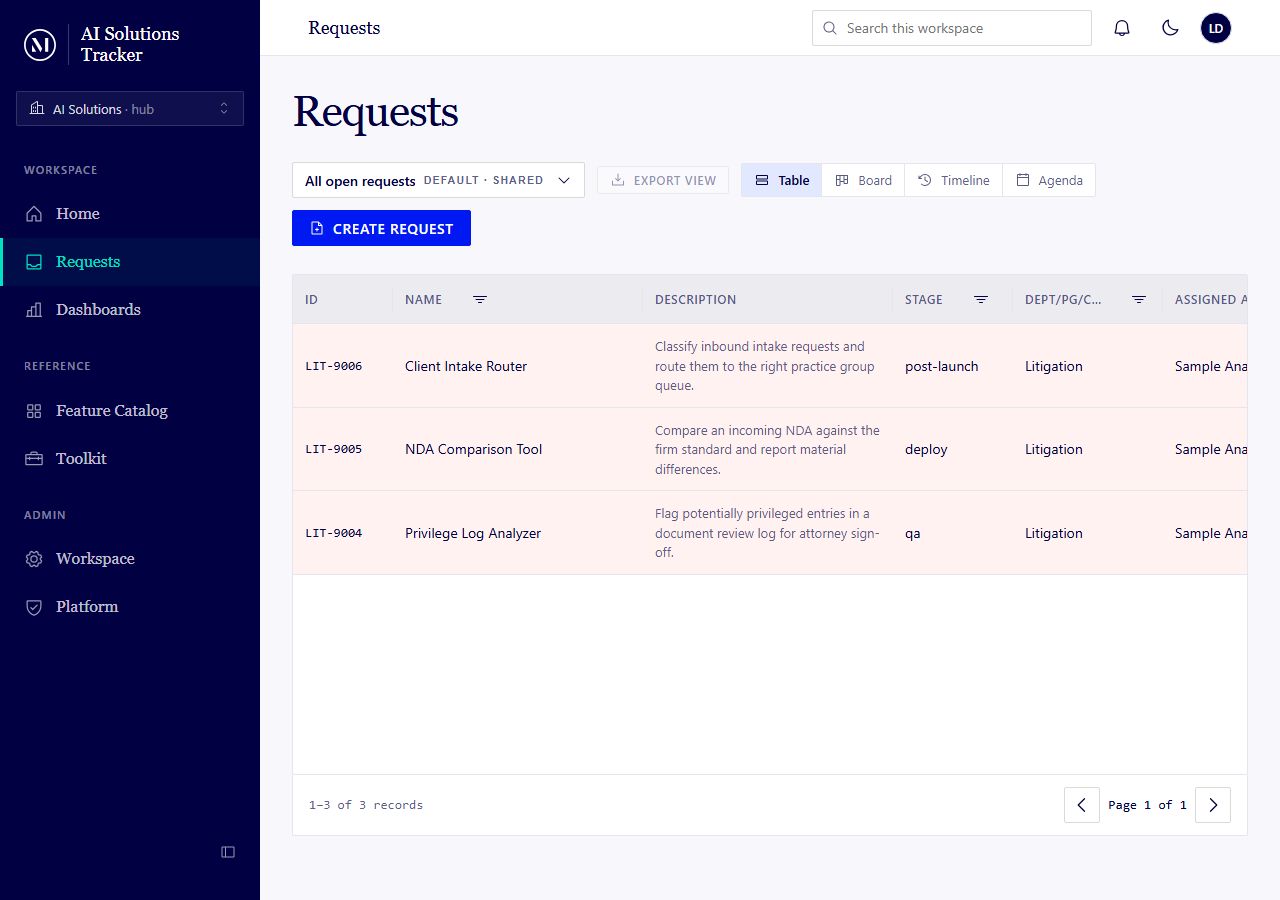
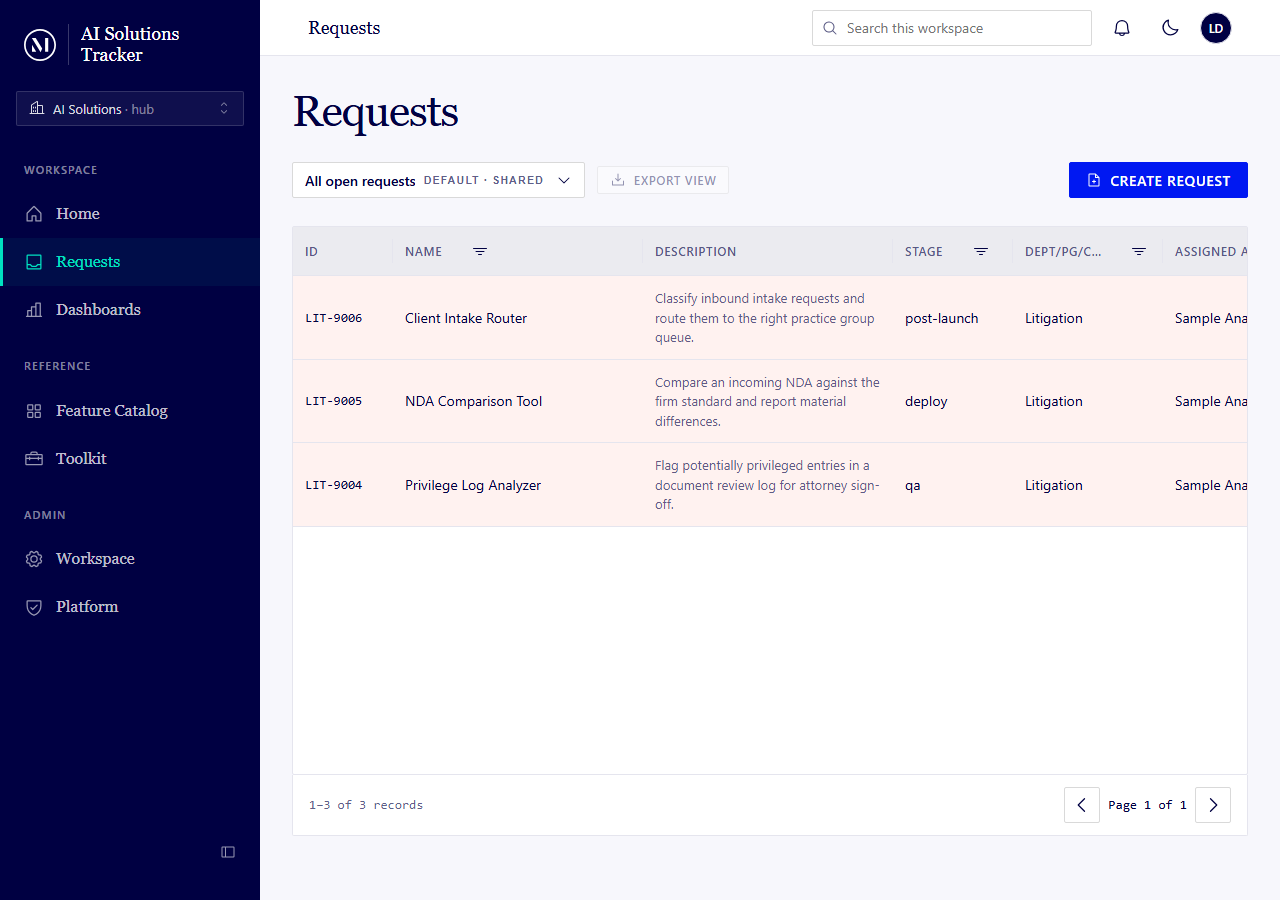
fix: remove advanced-view options from Requests page
The Table/Board/Timeline/Agenda view-mode toggle was mis-scoped onto the Requests page; the requirements language for advanced views was meant for the Dashboards page. Removes the ViewModeToggle, its ViewBar layoutSlot, the viewMode state, the kanban/timeline/agenda render branch, and the toViewItem/deriveStageOrder/slaBadges/REQUEST_VIEW_KINDS helpers plus the RecordViews import; drops the two view-switching tests. The Requests page now always renders the table. Shared RecordViews components are untouched (still used by FeatureCatalogPage). Design-fidelity render-and-compare confirms the Requests toolbar now matches the prototype (which shows no view-mode control), resolving the previously-Deferred S2/view-mode-toggle finding.

diff --git a/web/src/features/requests/components/RequestsListPage.tsx b/web/src/features/requests/components/RequestsListPage.tsx
@@ -24,14 +24,6 @@ import {
   type TableColumn,
   type TableRow,
 } from '@/shared/components/Table';
-import {
-  AgendaView,
-  KanbanView,
-  TimelineView,
-  ViewModeToggle,
-  type RecordViewItem,
-  type RecordViewKind,
-} from '@/shared/components/RecordViews';
 import { agingTintClass } from '@/shared/components/Feedback';
 import { EmptyListFilteredToZero, EmptyListZeroData } from '@/shared/components/EdgeStates';
 import { useMe } from '@/features/users/useMe';
@@ -252,49 +244,6 @@ function toTableRow(row: RequestListRow, onOpen: () => void): TableRow {
   };
 }
 
-/** Layouts offered on the Requests surface (Slice 24 — S24 advanced views). Gallery is Feature-only. */
-const REQUEST_VIEW_KINDS: RecordViewKind[] = ['table', 'kanban', 'timeline', 'agenda'];
-
-function slaBadges(sla: SlaStatus | undefined): RecordViewItem['badges'] {
-  if (sla === 'Overdue') return [{ label: 'Overdue', tone: 'error' }];
-  if (sla === 'DueSoon') return [{ label: 'Due soon', tone: 'warning' }];
-  return undefined;
-}
-
-/** Row → normalised advanced-view item (Slice 24). Group by Stage (kanban); anchor by Due date (timeline/agenda). */
-function toViewItem(row: RequestListRow, onOpen: () => void): RecordViewItem {
-  const columns = row.columns;
-  const due = typeof columns.due === 'string' ? columns.due : undefined;
-  return {
-    id: row.id,
-    title: cellText(columns.name),
-    subtitle: columns.desc ? cellText(columns.desc) : undefined,
-    groupValue: cellText(columns.stage),
-    dateValue: due,
-    badges: slaBadges(row.slaStatus),
-    meta: [
-      { label: 'ID', value: cellText(columns.id) },
-      { label: 'Dept/PG/Client', value: cellText(columns.origin) },
-      { label: 'Analyst', value: cellText(columns.analyst) },
-    ],
-    onOpen,
-  };
-}
-
-/** Distinct stage values from the loaded rows, in first-seen order — the kanban column order. */
-function deriveStageOrder(rows: RequestListRow[]): string[] {
-  const order: string[] = [];
-  const seen = new Set<string>();
-  for (const row of rows) {
-    const stage = cellText(row.columns.stage);
-    if (!seen.has(stage)) {
-      seen.add(stage);
-      order.push(stage);
-    }
-  }
-  return order;
-}
-
 /** Repo URL rollup cell (slice 7) — the first task-level URL field, rendered as a monospace link. */
 function RepoCell({ value }: { value: unknown }) {
   if (typeof value !== 'string' || value.trim() === '') {
@@ -337,7 +286,6 @@ export function RequestsListPage() {
   const [filters, setFilters] = useState<Record<string, FilterClause>>({});
   const [sort, setSort] = useState<SortState | undefined>(undefined);
   const [page, setPage] = useState(1);
-  const [viewMode, setViewMode] = useState<RecordViewKind>('table');
   const [editor, setEditor] = useState<{
     editingView: SavedViewDto | null;
     initialTab: 'filters' | 'fields' | 'sort';
@@ -457,14 +405,6 @@ export function RequestsListPage() {
           {exportView.isPending ? 'Exporting…' : 'Export view'}
         </Button>
       }
-      layoutSlot={
-        <ViewModeToggle
-          available={REQUEST_VIEW_KINDS}
-          active={viewMode}
-          onChange={setViewMode}
-          label="Requests layout"
-        />
-      }
       filters={activePills}
       onClearAll={clearAllFilters}
       primaryAction={
@@ -515,22 +455,6 @@ export function RequestsListPage() {
     );
   };
 
-  // Advanced views (Slice 24) render the current page's rows in the chosen layout. Pagination stays,
-  // so a board / timeline / agenda shows the same access-filtered page the table would.
-  const renderAdvancedView = (): ReactNode => {
-    const items = rows.map((row) => toViewItem(row, () => navigate(`/requests/${row.id}`)));
-    switch (viewMode) {
-      case 'kanban':
-        return <KanbanView items={items} groupOrder={deriveStageOrder(rows)} caption="Requests by stage" />;
-      case 'timeline':
-        return <TimelineView items={items} caption="Requests by due date" />;
-      case 'agenda':
-        return <AgendaView items={items} caption="Requests by due date" />;
-      default:
-        return null;
-    }
-  };
-
   return (
     <main className="requests-list-page list-surface" data-layout="wide">
       <h1 className="h1 requests-list-page__title">Requests</h1>
@@ -554,18 +478,14 @@ export function RequestsListPage() {
         </div>
       ) : (
         <div className="requests-list-page__grid list-surface__body">
-          {viewMode === 'table' ? (
-            <TableShell
-              caption="Requests"
-              columns={COLUMNS}
-              rows={rows.map((row) => toTableRow(row, () => navigate(`/requests/${row.id}`)))}
-              sort={sort}
-              onSortChange={onSortChange}
-              renderFilter={renderFilter}
-            />
-          ) : (
-            renderAdvancedView()
-          )}
+          <TableShell
+            caption="Requests"
+            columns={COLUMNS}
+            rows={rows.map((row) => toTableRow(row, () => navigate(`/requests/${row.id}`)))}
+            sort={sort}
+            onSortChange={onSortChange}
+            renderFilter={renderFilter}
+          />
           <TableFooter
             page={page}
             totalPages={totalPages}

diff --git a/web/src/features/requests/components/RequestsListPage.test.tsx b/web/src/features/requests/components/RequestsListPage.test.tsx
@@ -77,35 +77,6 @@ describe('RequestsListPage', () => {
     expect(await axe(container)).toHaveNoViolations();
   });
 
-  it('RequestsListPage — switching to the Board layout groups requests by stage (S24)', async () => {
-    // Arrange
-    mockHooks({ data: page([buildRequestListRow()]) });
-    const user = userEvent.setup();
-    renderWithProviders(<RequestsListPage />, { route: '/requests' });
-
-    // Act — toggle Table → Board
-    await user.click(screen.getByRole('button', { name: /Board/ }));
-
-    // Assert — a column for the row's stage, and the record as a card
-    expect(screen.getByRole('region', { name: 'intake (1)' })).toBeInTheDocument();
-    expect(
-      screen.getByRole('button', { name: /Meeting-notes action extraction/ }),
-    ).toBeInTheDocument();
-  });
-
-  it('RequestsListPage — switching to the Timeline layout anchors requests by due date (S24)', async () => {
-    // Arrange
-    mockHooks({ data: page([buildRequestListRow()]) });
-    const user = userEvent.setup();
-    renderWithProviders(<RequestsListPage />, { route: '/requests' });
-
-    // Act — toggle Table → Timeline
-    await user.click(screen.getByRole('button', { name: /Timeline/ }));
-
-    // Assert — the due date becomes a timeline node
-    expect(screen.getByText('16 Jul 2026')).toBeInTheDocument();
-  });
-
   it('RequestsListPage — renders the Repo URL rollup as a link (slice 7)', () => {
     // Arrange — a row whose first task-level URL field rolled up to the repo column.
     const base = buildRequestListRow();

diff --git a/reviews/architectural-findings.md b/reviews/architectural-findings.md
@@ -11,7 +11,7 @@ Append-only. Every architectural finding that has surfaced, with the developer's
 | design-fidelity//requests::S2/status-hold-pill | 2026-07-17 | Applied | 2026-07-17 | design-fidelity-web.md#added-element | web/src/features/requests/components/RequestsListPage.tsx | RECONCILED TO PROTOTYPE (user chose "remove it"): removed the per-row StatusHoldPill + its import from the Requests list — the prototype list shows no hold pill on rows. The pill remains on the record-detail header where the prototype does show it. |
 | design-fidelity//requests/:recordId::S4/record-detail-structure | 2026-07-17 | Deferred | 2026-07-17 | design-fidelity-web.md#visual-drift | web/src/features/requests/components/RecordDetailPage.tsx | CROSS-SLICE (not slice-26): dark-navy vs pale-blue section-header pills, Status-tab SUBMITTED/LIFECYCLE/STATUS-CATEGORY meta row + SLA block + STATUS HISTORY & REACTIVATION TRAIL absent in build, Attachments↔Tasks&gates tab order swap, and the prototype's "Active alerts" section (live-alerts feed) not built. Record detail was built in slices 5/9/21 and has shipped through every prior gate (which never ran the design-fidelity stand-up). Reconcile as separate cross-slice design-debt work, not a slice-26 blocker. |
 | design-fidelity/GATE::design-fidelity-web.md#render-failed | 2026-07-17 | Deferred | 2026-07-17 | design-fidelity-web.md#render-failed | artifacts/docs/design/project (DCLogic prototype) | The per-component (type,ordinal) computed-diff manifest is unobtainable for this Claude Design DCLogic single-file prototype: enumerate-prototype-components.mjs → 0 components; render-states.mjs cannot click-navigate the no-deep-link SPA. Build side works. RESOLVED for ship via the validator's built-in `component_coverage:"waived"` path — screen-level render-and-compare ran for every in-scope screen (both shots recorded in reviews/shots + reviews/.last-clean-run.json). Underlying per-component tooling gap stays Deferred: needs a design-fidelity path for the DCLogic format (or a re-export the hooks can enumerate). |
-| design-fidelity//requests::S2/view-mode-toggle | 2026-07-18 | Deferred | 2026-07-18 | design-fidelity-web.md#visual-drift | web/src/features/requests/components/RequestsListPage.tsx | CROSS-SLICE (not record-status-hold): the Requests-list toolbar carries a Table/Board/Timeline/Agenda view-mode segmented control absent from the prototype's Requests screen (prototype view vocabulary is Table/Board/Calendar). Built in the advanced-views slice (not in this worktree's dev base); shipped through its own gate. Surfaced by the render-and-compare stand-up. Reconcile as advanced-views design-debt, not a record-status-hold blocker. |
+| design-fidelity//requests::S2/view-mode-toggle | 2026-07-18 | Applied | 2026-07-19 | design-fidelity-web.md#visual-drift | web/src/features/requests/components/RequestsListPage.tsx | RESOLVED by fix/requests-remove-viewmodes (2026-07-19, analyst directive: advanced views were mis-scoped onto Requests; the requirements language was meant for the Dashboards page). Removed the Table/Board/Timeline/Agenda ViewModeToggle + its layoutSlot, the viewMode state, the kanban/timeline/agenda render branch, and the toViewItem/deriveStageOrder/slaBadges/REQUEST_VIEW_KINDS helpers + the RecordViews import from RequestsListPage.tsx; dropped the two view-switching tests. Render-and-compare confirms the Requests toolbar (saved-view picker + Export view + Create request) now MATCHES the prototype's Requests screen, which shows no view-mode control. Shared RecordViews components untouched (still used by FeatureCatalogPage). |
 | design-fidelity//requests/new::S3/intake-field-order | 2026-07-18 | Deferred | 2026-07-18 | design-fidelity-web.md#visual-drift | web/src/features/requests/components/IntakeFormPage.tsx | CROSS-SLICE (not record-status-hold): intake-form Intake card leads with 'Request type' + adds Workflow Details / Business Owner / Timing, where the prototype leads with 'Request name' and places Lifecycle lower. Built in the requests-core slice; shipped through its own gate. Shell + Similar-requests panel + numbered section-card pattern match. Reconcile as requests-core design-debt, not a record-status-hold blocker. |
 | design-fidelity//admin/lifecycle::S31/lifecycle-picker-shape | 2026-07-18 | Deferred | 2026-07-18 | design-fidelity-web.md#visual-drift | web/src/features/lifecycle/components/LifecyclePage.tsx | CROSS-SLICE (not record-status-hold): Lifecycle & gates uses a card-picker + Workspace selector + 'Saved' indicator where the prototype uses a native <select>; settings sub-nav label reads 'Manage announcements' vs the prototype's 'Announcements'. Built in the lifecycle-admin slice; shipped through its own gate. Workspace-settings shell + sub-nav + Lifecycles card + stages detail match. Reconcile as lifecycle-admin design-debt, not a record-status-hold blocker. |
 | design-fidelity//toolkit::S43/times-used-omitted | 2026-07-19 | Deferred | 2026-07-19 | design-fidelity-web.md#visual-drift | web/src/features/toolkit/components/ToolkitGallery.tsx | INTENTIONAL (slice-29 decision D5, analyst-approved): the prototype card footer shows "N uses" (Times used); the build omits it. R1 has no usage instrumentation (usage-metrics.md is R2) — showing 0 everywhere reads as broken. Documented in 29-slice-toolkit.md. Not a build defect; the design language (pills/badges/serif name/clamped desc/maintainer footer) matches. |

diff --git a/reviews/deferred-architectural.md b/reviews/deferred-architectural.md
@@ -7,7 +7,6 @@ Do not hand-edit — regenerated from `architectural-findings.md`. The slice-26 
 | design-fidelity//requests/:recordId::S4/record-detail-structure | 2026-07-17 | design-fidelity-web.md#visual-drift | web/src/features/requests/components/RecordDetailPage.tsx | CROSS-SLICE: dark-navy vs pale-blue section-header pills, Status-tab SUBMITTED/LIFECYCLE/STATUS-CATEGORY meta row + SLA block + STATUS HISTORY & REACTIVATION TRAIL absent in build, Attachments↔Tasks&gates tab order. Record detail built in slices 5/9/21; shipped through every prior gate. Reconcile as separate cross-slice design-debt, not a slice-26 blocker. (The "Active alerts" panel, previously listed here, was built as part of the slice-26 Watchers reconciliation.) |
 | design-fidelity/GATE::design-fidelity-web.md#render-failed | 2026-07-17 | design-fidelity-web.md#render-failed | artifacts/docs/design/project (DCLogic prototype) | SYSTEMIC: per-component computed-diff manifest unobtainable for the Claude Design DCLogic single-file prototype (enumerate-prototype-components.mjs → 0 components; render-states.mjs can't click-navigate the no-deep-link SPA). Blocks a validator-passing manifest / CLEAN for EVERY slice. Needs a design-fidelity path for the DCLogic format (or a prototype re-export the hooks can enumerate). |
 | tSQLt/GATE::database-testing.md | 2026-07-17 | database-testing.md | database/tests/** | ENVIRONMENT: tSQLt framework not vendored in the repo; needs an external CLR/TRUSTWORTHY install + network. Run in a SQL-Server-with-tSQLt environment or CI. Slice-26 authored `test_StatusHold.sql` (12 cases), `test_WatcherPreferences.sql` (8 cases incl. 2 new for `usp_GetMyWatcherPreferences`), and the `test_Escalation.sql` shape note — all unrun here. |
-| design-fidelity//requests::S2/view-mode-toggle | 2026-07-18 | design-fidelity-web.md#visual-drift | web/src/features/requests/components/RequestsListPage.tsx | CROSS-SLICE: Requests-list toolbar view-mode toggle (Table/Board/Timeline/Agenda) absent from the prototype's Requests screen. Built in the advanced-views slice; not a record-status-hold blocker. |
 | design-fidelity//requests/new::S3/intake-field-order | 2026-07-18 | design-fidelity-web.md#visual-drift | web/src/features/requests/components/IntakeFormPage.tsx | CROSS-SLICE: intake-form field order/labels drift (Request type first + Workflow Details/Business Owner/Timing) vs the prototype's Request name + lower Lifecycle. Built in the requests-core slice; not a record-status-hold blocker. |
 | design-fidelity//admin/lifecycle::S31/lifecycle-picker-shape | 2026-07-18 | design-fidelity-web.md#visual-drift | web/src/features/lifecycle/components/LifecyclePage.tsx | CROSS-SLICE: lifecycle picker card vs prototype <select>; 'Manage announcements' vs 'Announcements' sub-nav label; Workspace selector + Saved indicator. Built in the lifecycle-admin slice; not a record-status-hold blocker. |
 | design-fidelity//toolkit::S43/times-used-omitted | 2026-07-19 | design-fidelity-web.md#visual-drift | web/src/features/toolkit/components/ToolkitGallery.tsx | INTENTIONAL (slice-29 D5, analyst-approved): prototype card footer shows "N uses"; build omits Times used — R1 has no usage instrumentation (R2). Documented in 29-slice-toolkit.md. Design language otherwise matches. |

diff --git a/reviews/design-fidelity-findings/fix-requests-remove-viewmodes-997638a.md b/reviews/design-fidelity-findings/fix-requests-remove-viewmodes-997638a.md
@@ -1,0 +1,29 @@
+# Design-fidelity — fix-requests-remove-viewmodes-997638a
+
+**Scope:** `web/src/features/requests/components/RequestsListPage.tsx` (+ its test). Only **S2 (Requests list)** is affected by this diff; S3/S4/S31/APP/SHELL and the 18 not-implemented screens are untouched and carry forward from the last CLEAN cache (slice-record-status-hold / slice-toolkit-object).
+
+Prototype focal file: `artifacts/docs/design/project/AI Solutions Tracker.dc.html`. Build stood up locally via the local-testing stack (LocalDB `AiSolutionsTrackerDev`, dev-bypass auth, seeded). Per-component capture **waived** (DCLogic single-file prototype tags no app-composite components — systemic, `#render-failed` Deferred); screen-level render-and-compare ran.
+
+## Iteration 1
+
+### S2 — /requests — **match** (view-mode drift RESOLVED)
+
+- **prototype_shot:** `reviews/shots/S2-proto.png` (CDP click-nav `--clicks "Requests"`)
+- **build_shot:** `reviews/shots/S2-build.png` (URL `http://localhost:5173/requests`)
+- **Verdict:** `match`.
+
+This slice removes the Table/Board/Timeline/Agenda `ViewModeToggle` from the Requests toolbar. Render-and-compare confirms the prototype's Requests toolbar shows exactly **saved-view picker ("All open requests · DEFAULT · SHARED") + Export view + Create request** — **no view-mode control**. The build toolbar, after this change, now shows the **same three controls**. The toolbars match.
+
+This **resolves** the previously-Deferred finding `design-fidelity//requests::S2/view-mode-toggle` (the toggle was added in the advanced-views slice and recorded as `visual-drift` because it was absent from the prototype). Ledger row flipped `Deferred → Applied` in `architectural-findings.md`; removed from `deferred-architectural.md`.
+
+Remaining S2 differences are **seed data, not design**: build shows 3 rows (LIT-9004/5/6) vs prototype mock 18 rows (REQ-000xxxx); avatar initials differ (dev-bypass user vs prototype mock). Not design drift.
+
+### Carried forward (untouched by this diff — Deferred cross-slice, non-blocking)
+
+- **S3** /requests/new — `visual-drift` (intake field order/labels), Deferred (requests-core slice).
+- **S4** /requests/:recordId — `visual-drift` (tab order, SLA/history blocks, section-pill colour), Deferred (slices 5/9/21).
+- **S31** /admin/lifecycle — `visual-drift` (picker shape, sub-nav label), Deferred (lifecycle-admin slice).
+- **APP / SHELL** — `match`.
+- 18 Prototype-tagged screens with blank App-route — `not-implemented` (render-exempt, out of scope).
+
+**No new open design-fidelity findings.** The one screen this diff touches (S2) now matches the prototype.

diff --git a/reviews/iteration-log/fix-requests-remove-viewmodes-997638a.md b/reviews/iteration-log/fix-requests-remove-viewmodes-997638a.md
@@ -1,0 +1,21 @@
+# fix-requests-remove-viewmodes-997638a — iteration log
+
+**Label:** fix-requests-remove-viewmodes-997638a
+**Scope source:** git diff (uncommitted) — `web/src/features/requests/components/RequestsListPage.tsx` + `.test.tsx`
+**Branch:** fix/requests-remove-viewmodes (off dev @ 997638a)
+**Started / Ended:** 2026-07-19
+**Final status:** CLEAN
+
+## Iteration 1 — 0 code findings, 0 security findings, 0 open design-fidelity findings
+
+- **Design-fidelity (ran FIRST):** S2 /requests rendered build + prototype, compared → **match** (the removed Table/Board/Timeline/Agenda toggle was absent from the prototype; toolbars now identical). Resolves the prior Deferred `design-fidelity//requests::S2/view-mode-toggle`. S3/S4/S31 untouched → Deferred cross-slice (carried). APP/SHELL match. 18 blank-route screens not-implemented. Per-component capture waived (DCLogic systemic `#render-failed`, Deferred). Local stack torn down after comparison.
+- **Phase 0 — unit tests:** `RequestsListPage.test.tsx` → 19/19 pass (2 view-switching tests removed with the feature). `tsc --noEmit` = dev baseline (10 pre-existing unrelated errors, 0 in requests/, 0 new). No gaps to fill.
+- **Phase 1 — code review:** design-conformance `--web-required` PASS; checklist review → 0 findings (pure removal, no orphans, no token violations).
+- **Phase 2 — security review:** 0 findings (no security surface changed).
+- **Auto-applied:** none needed. **Architectural surfaced:** none new. **Ledger:** flipped `S2/view-mode-toggle` Deferred→Applied.
+- **End-of-iteration open set:** ∅
+
+## Final Status: CLEAN
+- Total iterations: 1
+- Findings fixed: 0 (clean diff); 1 prior design-fidelity finding RESOLVED by the change
+- Architectural deferred: cross-slice S3/S4/S31 + systemic DCLogic/tSQLt (unchanged, carried)

diff --git a/reviews/code-review-findings/fix-requests-remove-viewmodes-997638a.md b/reviews/code-review-findings/fix-requests-remove-viewmodes-997638a.md
@@ -1,0 +1,18 @@
+# Code review — fix-requests-remove-viewmodes-997638a
+
+**Scope (review_scope):** `web/src/features/requests/components/RequestsListPage.tsx`, `web/src/features/requests/components/RequestsListPage.test.tsx`. Pure removal — 8 insertions / 117 deletions.
+
+Checklists: `web-frontend.md`, `web-coding-standards.md`, `web-component-architecture.md`, `web-styling.md`.
+
+## Iteration 1 — 0 findings
+
+Reviewed against the frontend basic + advanced checklists:
+
+- **Dead code / unused imports** — the `RecordViews` import (`AgendaView`, `KanbanView`, `TimelineView`, `ViewModeToggle`, `RecordViewItem`, `RecordViewKind`) and the helpers only it used (`REQUEST_VIEW_KINDS`, `slaBadges`, `toViewItem`, `deriveStageOrder`) are all removed together with the `viewMode` state and the `renderAdvancedView` branch. No orphaned references remain (grep-verified). Retained imports (`SlaStatus`, `ReactNode`, `agingTintClass`) are still used. ✔
+- **Shared component impact** — `KanbanView`/`TimelineView`/`AgendaView`/`ViewModeToggle` remain exported and are still consumed by `FeatureCatalogPage`; nothing orphaned. ✔
+- **Component length / complexity** — reduced. No new state, props, or effects. ✔
+- **`layoutSlot`** on `ViewBar` is optional (`layoutSlot?`) — dropping it is safe; ViewBar renders `{layoutSlot && …}`. ✔
+- **Design tokens** — no style changes; the deterministic `check-design-conformance.sh --web-required` gate is the authority (PASS). ✔
+- **Tests** — the two removed tests exercised the now-removed Board/Timeline switching. Remaining 19 tests pass; `tsc --noEmit` introduces **zero** new errors vs the dev baseline (10 pre-existing, unrelated, none in `requests/`). ✔
+
+No mechanical fixes required. No architectural findings.

diff --git a/reviews/security-review-findings/fix-requests-remove-viewmodes-997638a.md b/reviews/security-review-findings/fix-requests-remove-viewmodes-997638a.md
@@ -1,0 +1,14 @@
+# Security review — fix-requests-remove-viewmodes-997638a
+
+**Scope:** `web/src/features/requests/components/RequestsListPage.tsx` (+ test). Checklist: `web-frontend-security.md` (OWASP A01–A10, web-specific).
+
+## Iteration 1 — 0 findings
+
+This is a **pure UI-removal** diff. It deletes a view-mode switcher, its render branch, and dead helpers/imports; it removes two tests. It introduces:
+
+- No new user input handling, no new network calls, no query-string construction.
+- No `dangerouslySetInnerHTML`, `eval`, or dynamic code execution.
+- No auth, token, storage, or permission changes (access is still enforced server-side; the list query is unchanged).
+- No new dependencies.
+
+No security surface added or changed. **CLEAN.**
